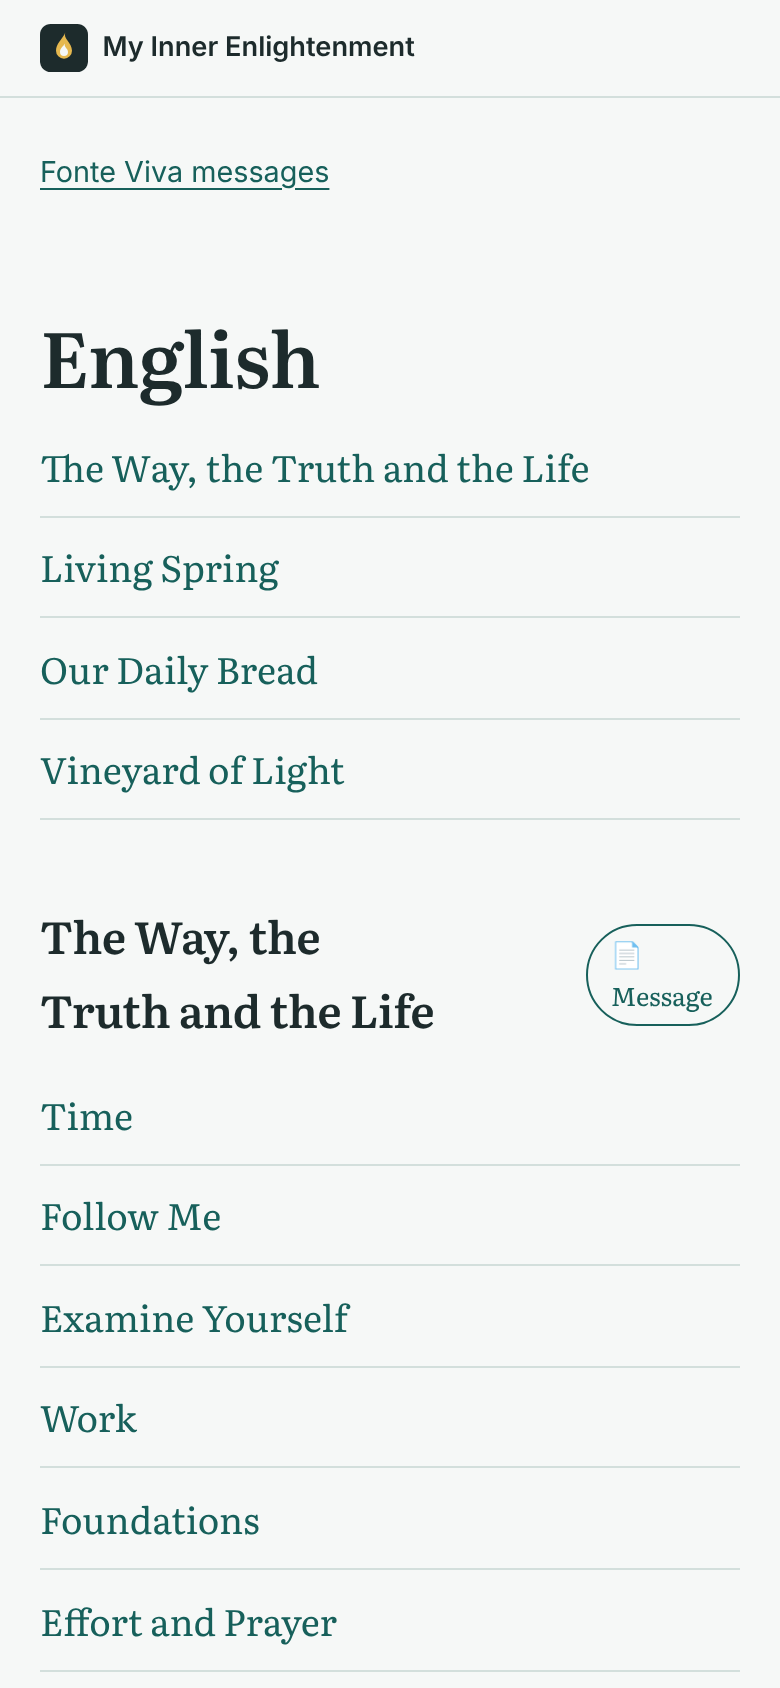
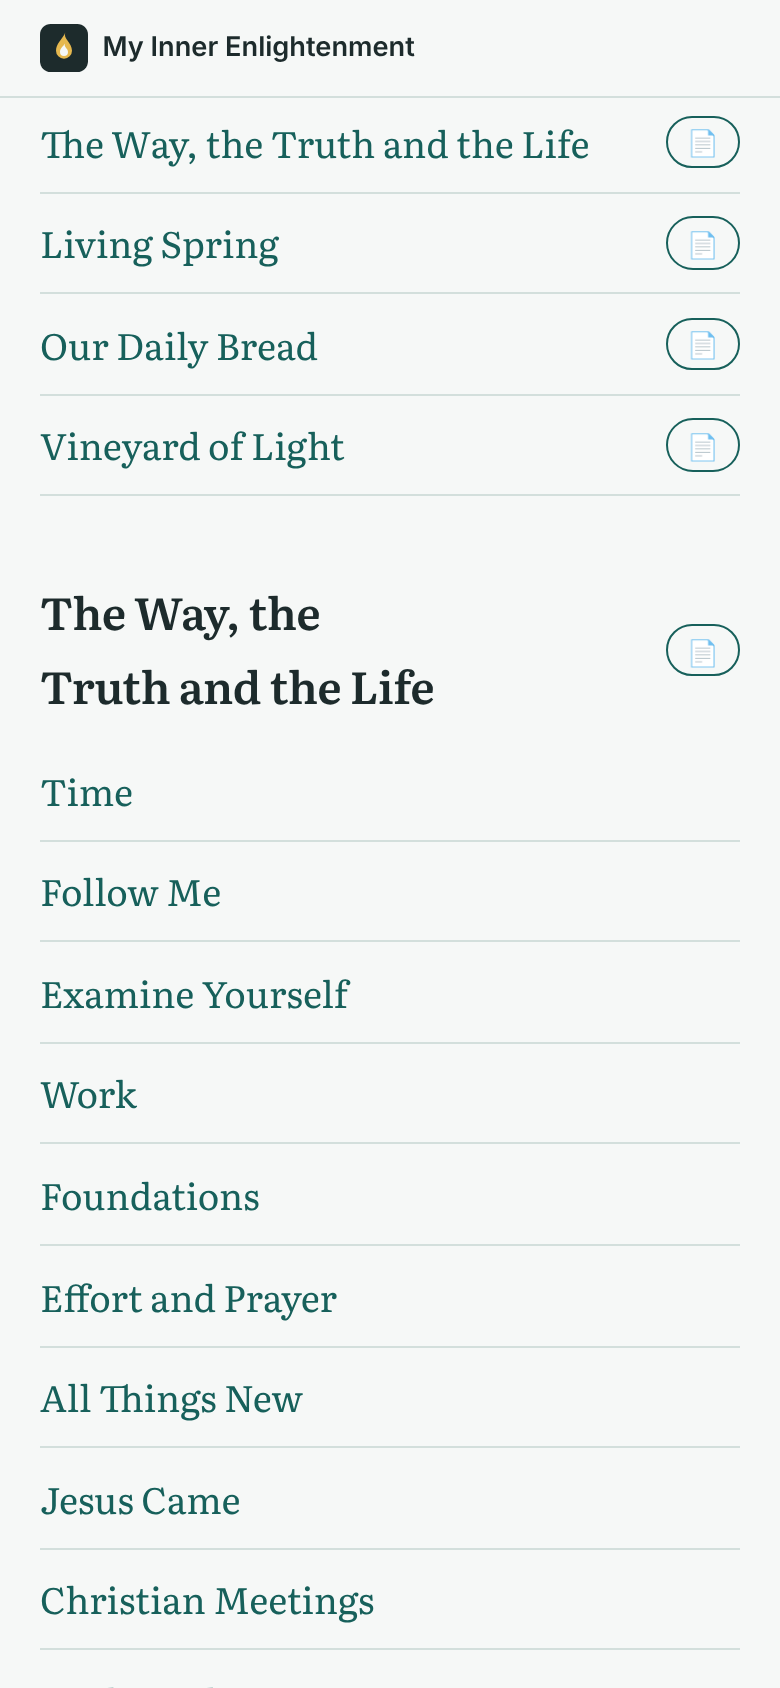
One-tap random message from the book list on the index (#182)
<!-- claude-projects-attribution: {"github_login":"dancastellani"} -->
_Requested by **Dan** · [project
thread](https://claude.ai/code/project/chan_01CBgXaF5Kij9S7DPgV1XWyp?thread=cmsg_01CBgXaF5Kij9S7DPgV1XWyp6Co2iYjmY1tde4FrFXWwxe)_

Follow-up to #181 (issue #180), which merged before these last changes
landed.

Before: the random-message button ("📄 Message") was only beside the
book's name above its messages, so it needed two taps (pick the book,
then the button).

After: a page icon (📄) sits beside each book in the list of books, so
one tap opens a random message from that book. The icon stays beside the
book name above its messages, as an icon without the word (the word is
its accessible name and tooltip). Same on the website, in the list at
the top and beside each book heading.

How: the app and the site builder share the same idea as before; the
site builder gets one small `randomButton` helper used in both places.
No new labels. Specs: UC-20.9, UC-20.10, OP-05.46 updated. All unit
tests and all 64 specs pass locally.

## Evidence

App (web build), UC-20.9: the icons beside the books and beside the
picked book's name, then the message one tap opens:

![app
index](https://raw.githubusercontent.com/dancastellani/innerenlightenment/claude/random-per-book-toix67/docs/screenshots/uc-20-9-random-from-book.png)
![app
result](https://raw.githubusercontent.com/dancastellani/innerenlightenment/claude/random-per-book-toix67/docs/screenshots/uc-20-9-random-from-book-result.png)
[…]

diff --git a/mobile/App.tsx b/mobile/App.tsx
@@ -327,14 +327,21 @@ export default function App() {
         <Text style={styles.title}>{t.index}</Text>
         <View style={styles.actions}>
           {books.map((book) => (
-            <Action key={book.slug} title={bookNameIn(settings.language, book.slug)} onPress={() => setIndexBook(book.slug)} main={book.slug === indexBook} />
+            <View key={book.slug} style={styles.bookRow}>
+              <View style={styles.bookAction}>
+                <Action title={bookNameIn(settings.language, book.slug)} onPress={() => setIndexBook(book.slug)} main={book.slug === indexBook} />
+              </View>
+              <Pressable accessibilityRole="button" accessibilityLabel={t.randomMessage} onPress={() => showRandomFromBook(book.slug)} style={styles.randomButton}>
+                <Text style={styles.randomButtonText}>📄</Text>
+              </Pressable>
+            </View>
           ))}
         </View>
         {indexBook && (
-          <View style={styles.bookRow}>
+          <View style={styles.bookHeading}>
             <Text style={styles.bookTitle}>{bookNameIn(settings.language, indexBook)}</Text>
-            <Pressable accessibilityRole="button" onPress={() => showRandomFromBook(indexBook)} style={styles.randomButton}>
-              <Text style={styles.randomButtonText}>📄 {t.randomMessage}</Text>
+            <Pressable accessibilityRole="button" accessibilityLabel={t.randomMessage} onPress={() => showRandomFromBook(indexBook)} style={styles.randomButton}>
+              <Text style={styles.randomButtonText}>📄</Text>
             </Pressable>
           </View>
         )}
@@ -566,8 +573,10 @@ const styles = StyleSheet.create({
   disclaimer: { fontSize: 13, color: colors.muted, marginTop: 24 },
   backButton: { marginTop: 32 },
   bookTitle: { fontFamily: 'Literata_600SemiBold', fontSize: 24, letterSpacing: -0.3, color: colors.ink, flexShrink: 1 },
-  bookRow: { flexDirection: 'row', alignItems: 'center', justifyContent: 'space-between', gap: 12, marginTop: 36, marginBottom: 8 },
-  randomButton: { borderRadius: 16, borderWidth: 1.5, borderColor: colors.spring, paddingVertical: 4, paddingHorizontal: 12 },
-  randomButtonText: { fontSize: 14, fontWeight: '600', color: colors.spring },
+  bookHeading: { flexDirection: 'row', alignItems: 'center', justifyContent: 'space-between', gap: 12, marginTop: 36, marginBottom: 8 },
+  bookRow: { flexDirection: 'row', gap: 8 },
+  bookAction: { flex: 1 },
+  randomButton: { width: 52, height: 52, borderRadius: 26, borderWidth: 1.5, borderColor: colors.spring, alignItems: 'center', justifyContent: 'center' },
+  randomButtonText: { fontSize: 20 },
   indexItem: { fontFamily: 'Literata_400Regular', fontSize: 18, color: colors.spring, paddingVertical: 14, borderBottomWidth: 1, borderColor: colors.rule },
 });

diff --git a/scripts/build-site.ts b/scripts/build-site.ts
@@ -102,15 +102,14 @@ class Website {
   // The books first, as links to their part of the page, then each book's messages.
   languagePage(content: Content): string {
     const bookLinks = content.books
-      .map((book) => `<li><a href="#${book.slug}">${escapeHtml(book.name)}</a></li>`)
+      .map((book) => `<li><a href="#${book.slug}">${escapeHtml(book.name)}</a> ${this.randomButton(content, book.slug)}</li>`)
       .join('\n');
     const books = content.books.map((book) => {
       const links = content.messages
         .filter((m) => m.book === book.slug)
         .map((m) => `<li><a href="${m.slug}/">${escapeHtml(m.title)}</a></li>`)
         .join('\n');
-      const random = `<a class="random-button" href="random/${book.slug}/">📄 ${escapeHtml(content.labels.randomMessage)}</a>`;
-      return `<div class="book-row"><h2 id="${book.slug}">${escapeHtml(book.name)}</h2>${random}</div>\n<ul>\n${links}\n</ul>`;
+      return `<div class="book-heading"><h2 id="${book.slug}">${escapeHtml(book.name)}</h2>${this.randomButton(content, book.slug)}</div>\n<ul>\n${links}\n</ul>`;
     });
     const name = this.names[content.language].name;
     const body = this.render('language', { title: content.labels.title, languageName: name, bookLinks, books: books.join('\n') });
@@ -123,7 +122,13 @@ class Website {
     return this.page(content.language, content.labels.title, '../', this.randomScript(this.slugsOf(content), '../', fallback));
   }
 
-  // The book's "Message" button on the language page: opens a random message of that book.
+  // The page button that opens a random message of the book.
+  randomButton(content: Content, book: string): string {
+    const label = escapeHtml(content.labels.randomMessage);
+    return `<a class="random-button" href="random/${book}/" title="${label}" aria-label="${label}">📄</a>`;
+  }
+
+  // The page button beside a book in the list at the top on the language page: opens a random message of that book.
   bookRandomPage(content: Content, book: string): string {
     const fallback = `<a href="../../#${book}">${this.names[content.language].name}</a>`;
     const slugs = content.messages.filter((m) => m.book === book).map((m) => m.slug);

diff --git a/website/style.css b/website/style.css
@@ -145,10 +145,12 @@ footer { margin-top: 4rem; border-top: 1px solid var(--rule); padding-top: 1.5re
   nav .another, .menu-items { transition: none; animation: none; }
 }
 
-/* UC-20.9: the "Message" button next to a book's name opens a random message of that book. */
-.book-row { display: flex; align-items: center; justify-content: space-between; gap: 1rem; margin: 2.5rem 0 0.5rem; }
-.book-row h2 { margin: 0; }
-.random-button { padding: 0.2rem 0.7rem; border: 1.5px solid var(--spring); border-radius: 999px; font-size: 0.8rem; text-decoration: none; color: var(--spring); }
+/* UC-20.9: the page button beside a book in the list at the top opens a random message of that book. */
+.books li { display: flex; align-items: center; justify-content: space-between; }
+.books li a:first-child { flex: 1; }
+.book-heading { display: flex; align-items: center; justify-content: space-between; margin: 2.5rem 0 0.5rem; }
+.book-heading h2 { margin: 0; }
+.random-button { padding: 0.1rem 0.6rem; border: 1.5px solid var(--spring); border-radius: 999px; font-size: 0.8rem; text-decoration: none; }
 
 /* UC-13: the favourite star next to the message title, and the message when it can't be saved. */
 .title-row { display: flex; align-items: flex-start; gap: 0.5rem; }
